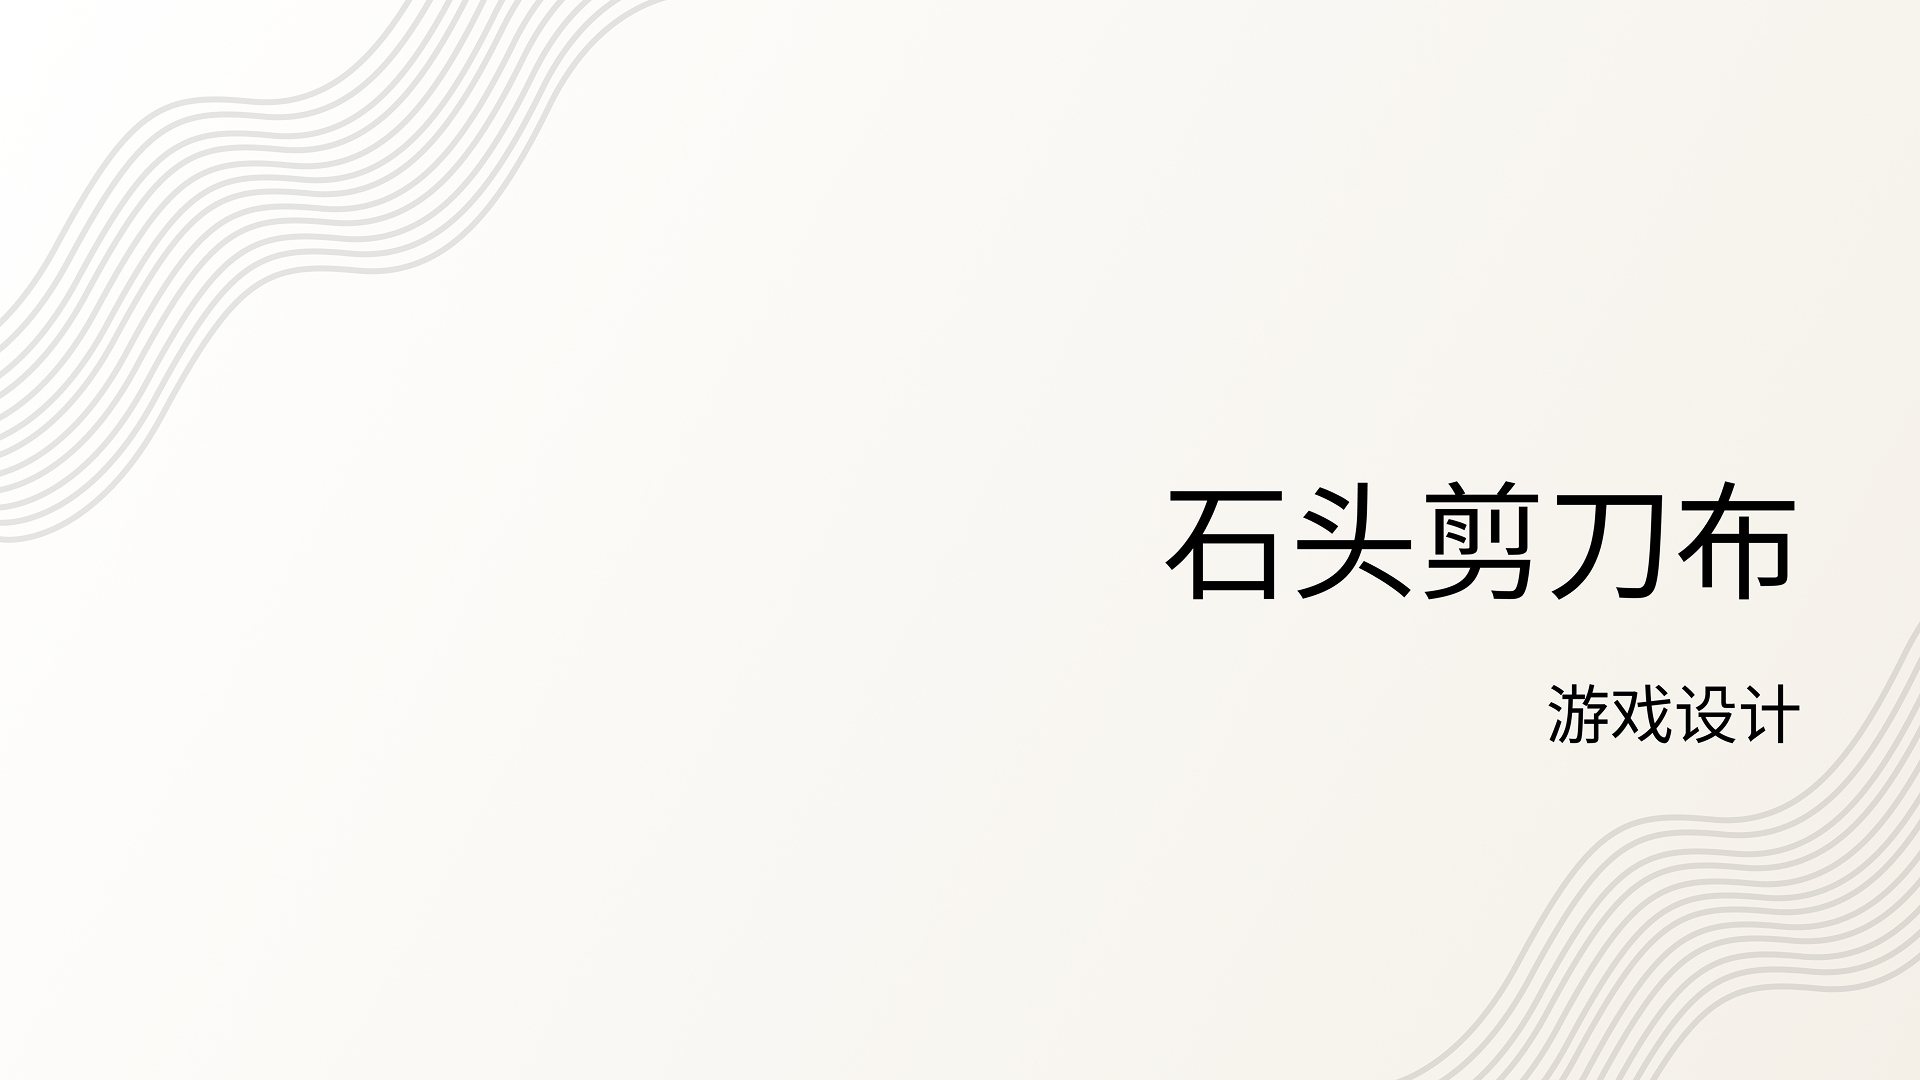
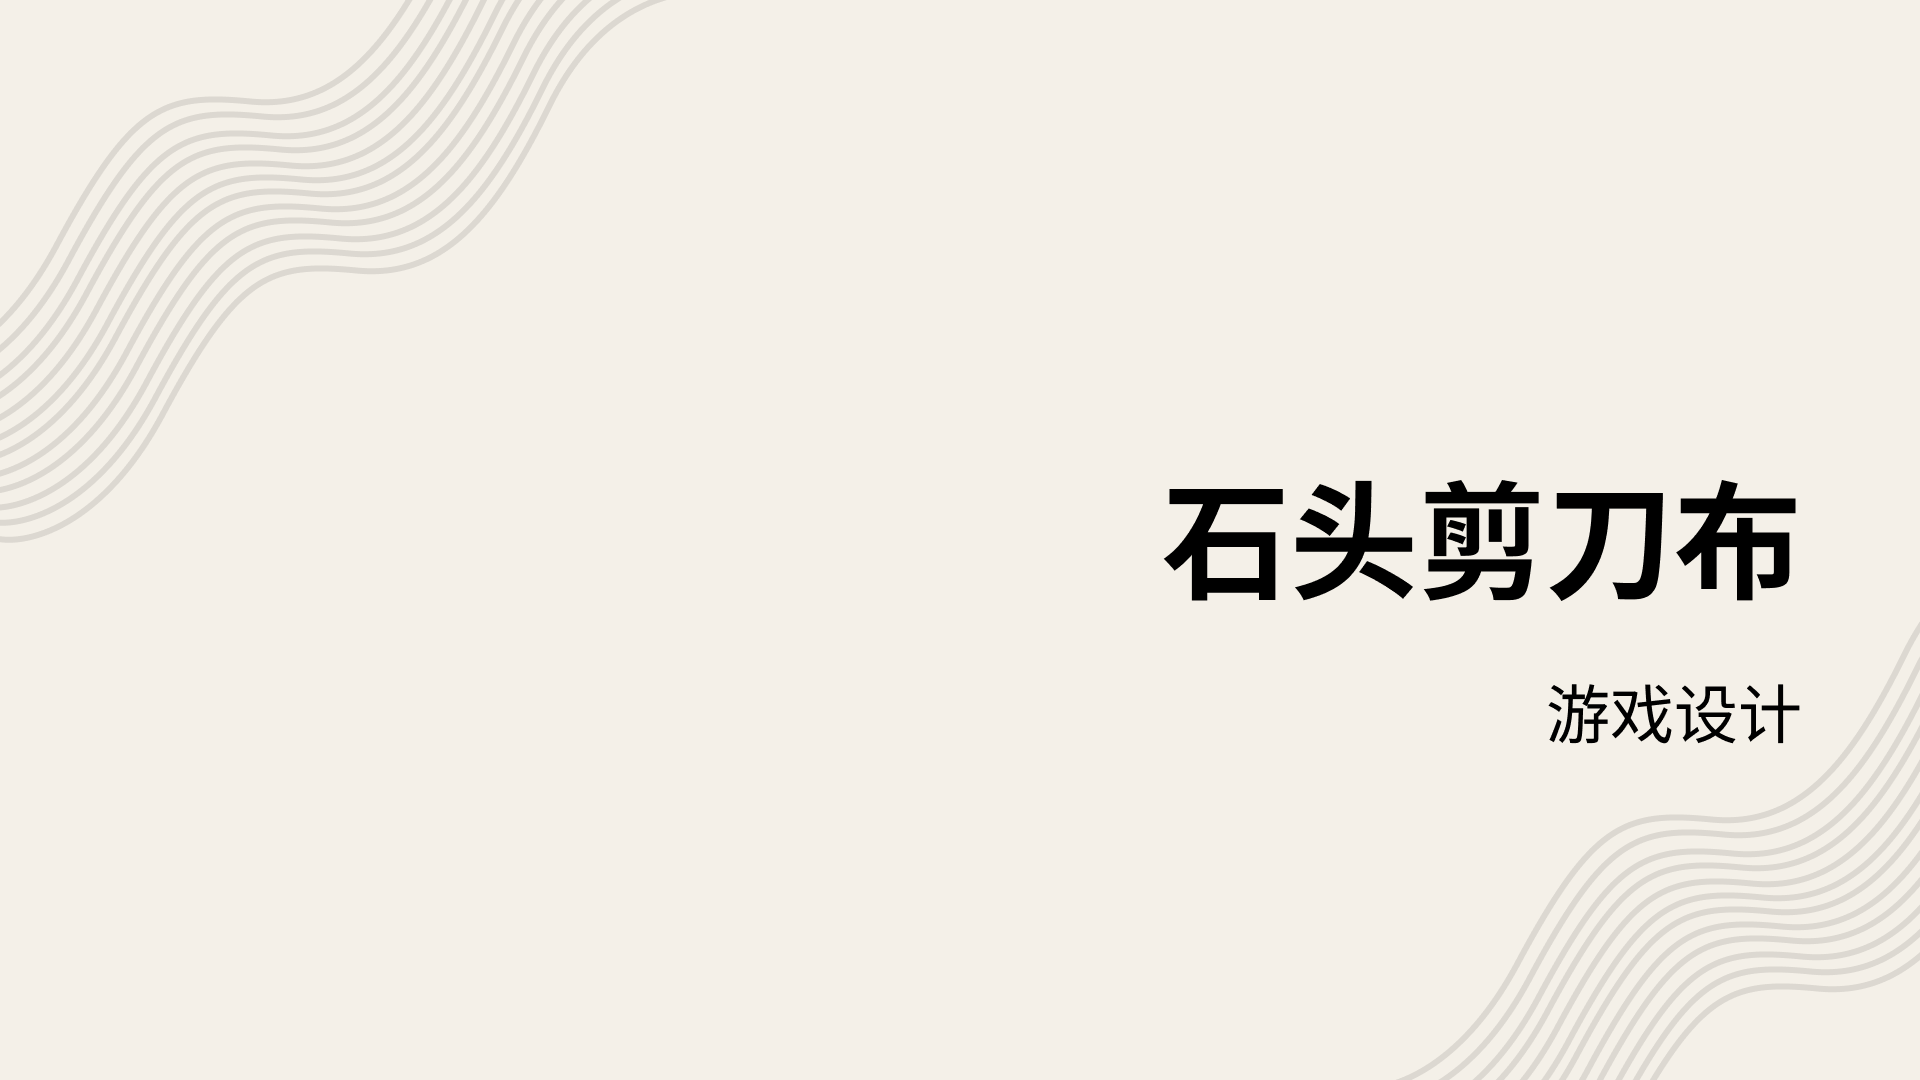
improve the vision of the game design work

Changed region(s): [[0.5938, 0.4278, 0.9375, 0.55]]

diff --git a/gameDesign.html b/gameDesign.html
@@ -71,6 +71,11 @@
                     <div class="tagList">
 
                         <span class="tag">
+                            <span class="lang-en">Game Design</span>
+                            <span class="lang-zh">游戏设计</span>
+                        </span>
+
+                        <span class="tag">
                             <span class="lang-en">Goal</span>
                             <span class="lang-zh">目标</span>
                         </span>
@@ -145,6 +150,11 @@
                     <div class="tagList">
 
                         <span class="tag">
+                            <span class="lang-en">Gameplay Breakdown</span>
+                            <span class="lang-zh">玩法拆解</span>
+                        </span>
+
+                        <span class="tag">
                             <span class="lang-en">Five Different Game</span>
                             <span class="lang-zh">五种不同游戏</span>
                         </span>
@@ -175,7 +185,7 @@
                             </span>
 
                             <span class="pdfTitle">
-                                <span class="lang-en">Game Analysis</span>
+                                <span class="lang-en">Gameplay Breakdown</span>
                                 <span class="lang-zh">游戏玩法拆解</span>
                             </span>
 
@@ -299,7 +309,7 @@
                         </span>
 
                         <span class="tag">
-                            <span class="lang-en">Mobile Adapting</span>
+                            <span class="lang-en">Mobile Optimization</span>
                             <span class="lang-zh">移动端适配</span>
                         </span>
 